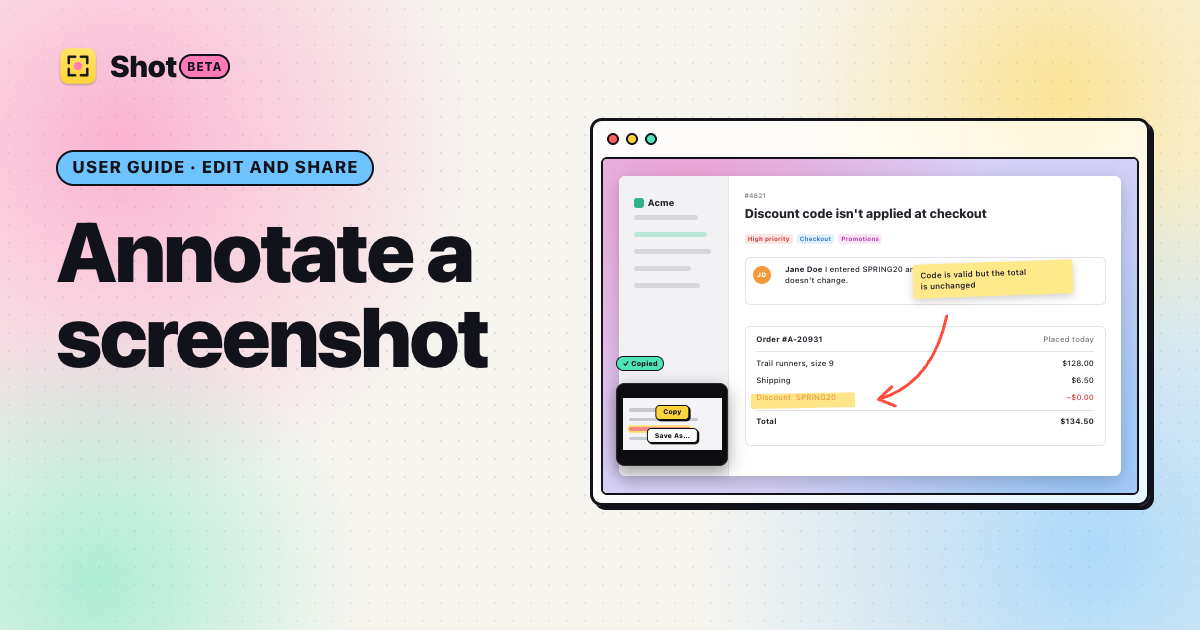
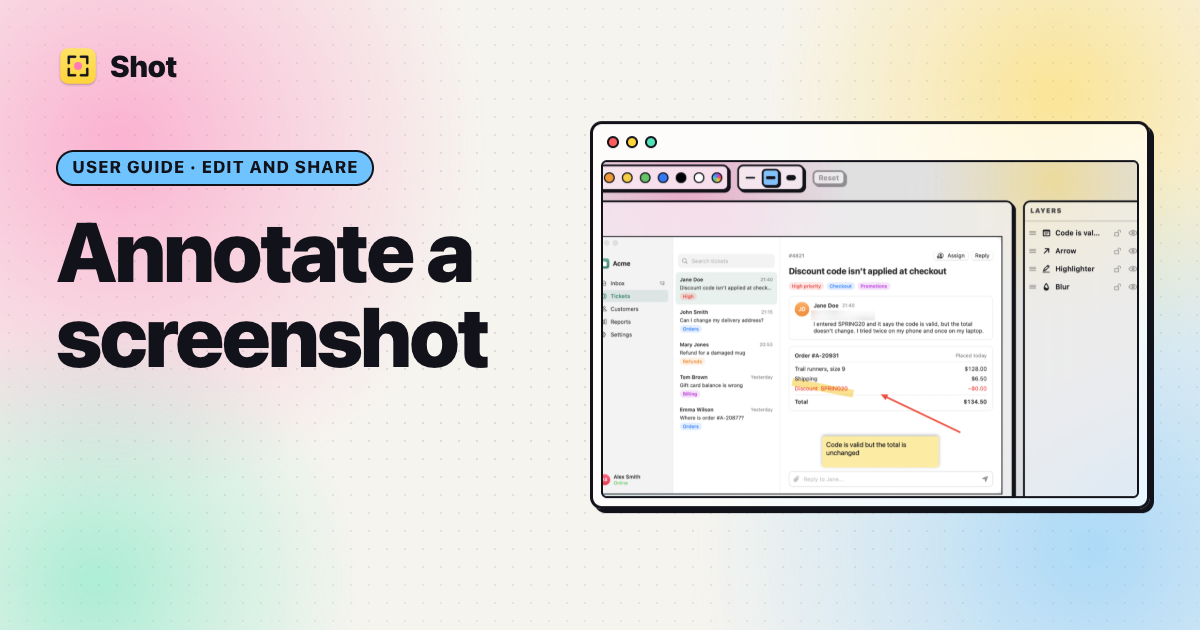
site: give each social card a scene from its page and a clearer arrow

Changed region(s): [[0.4933, 0.181, 0.9558, 0.8143], [0.1233, 0.0603, 0.2158, 0.1508]]

diff --git a/site/README.md b/site/README.md
@@ -16,7 +16,7 @@ npm run preview   # build, then serve dist/ (Astro's server ignores `_redirects`
 - The look follows the app's design system (`Sources/Shot/Design/BrutalStyle.swift`), in light and dark like the app. [DESIGN.md](DESIGN.md) says how the site uses it: palette, shape, motion and the shared pieces. The tokens are at the top of `src/styles/global.css`.
 - The motion is CSS: the hero's animation (`src/components/HeroStage.astro`), scroll reveals (`.reveal`) and the browser's own page transitions. Each has a still version for reduced motion, and a browser without scroll-driven animations or view transitions just shows the page.
 - `npm run media` turns the 2× recordings in `docs/media` (`hero.mp4`, `capture.mp4`, `recording.mp4`) into the looping videos and posters in `public/media/` (needs ffmpeg, and `cwebp` if your ffmpeg can't write WebP). `npm run icons` regenerates the favicons from `docs/icon.png`. Run them after changing those files and commit the output.
-- `npm run og` renders the social cards with headless Chrome (set `CHROME` if it isn't in `/Applications`): `public/og.png` for the site and `public/og/<slug>.png` for each guide page, which the guide template passes to `Base.astro` as `image`. The cards load `src/styles/global.css` and take the hero's markup and styles from `HeroStage.astro` (its last frame), so they follow the site, and they use the system fonts as the site does. Run it after the brand, the hero or a guide page's title changes, and commit the output.
+- `npm run og` renders the social cards with headless Chrome (set `CHROME` if it isn't in `/Applications`): `public/og.png` for the site and `public/og/<slug>.png` for each guide page, which the guide template passes to `Base.astro` as `image`. The cards load `src/styles/global.css` and take the hero's markup and styles from `HeroStage.astro` (its last frame), so they follow the site, and show each guide page's own screenshot or a drawing of its topic (`scenes` in `og.mjs`), and they use the system fonts as the site does. Run it after the brand, the hero or a guide page's title changes, and commit the output.
 - `Base.astro` writes the Open Graph and Twitter tags and links the release feed, `/changelog/rss.xml`, which is built from `CHANGELOG.md`. `noindex` keeps a page, such as the 404, out of search results. The sitemap (`src/pages/sitemap.xml.ts`) takes each page's `lastmod` from git (`src/lib/lastmod.ts`), and leaves it out in a shallow clone, which would date every page to the same commit. The landing page carries `SoftwareApplication` structured data, and a `<noscript>` still of the Quick Access card.
 - `/screenshot-apps/` says what Shot does and doesn't do next to other screenshot apps. Keep its claims to what the apps' own sites and Shot's code show, and name no prices.
 

diff --git a/site/DESIGN.md b/site/DESIGN.md
@@ -47,7 +47,7 @@ Four slow colour blobs and a dot grid behind everything, as in the app's `GlassB
 
 ## Social cards
 
-`npm run og` renders each card from the site itself: the home card is the hero (`A better ⌘⇧4` beside the window with its last frame), and each guide page's card swaps the headline for the page's title, with its group as a chip in the group's accent. Both sit on the backdrop, in the system fonts, and reuse `global.css` and `HeroStage.astro`, so a change to either shows up the next time the cards are rendered.
+`npm run og` renders each card from the site itself: the home card is the hero (`A better ⌘⇧4` beside the window with its last frame). A guide page's card swaps the headline for the page's title, with its group as a chip in the group's accent, and shows what the page is about in the window: the guide's own screenshot where it has one, otherwise a drawing in the site's style (keycaps for the shortcuts page, a command for removing Shot). The scenes are listed in `scripts/og.mjs`; a page without one shows the hero. Cards sit on the backdrop, in the system fonts, and reuse `global.css` and `HeroStage.astro`, so a change to either shows up the next time the cards are rendered.
 
 ## Rules
 
